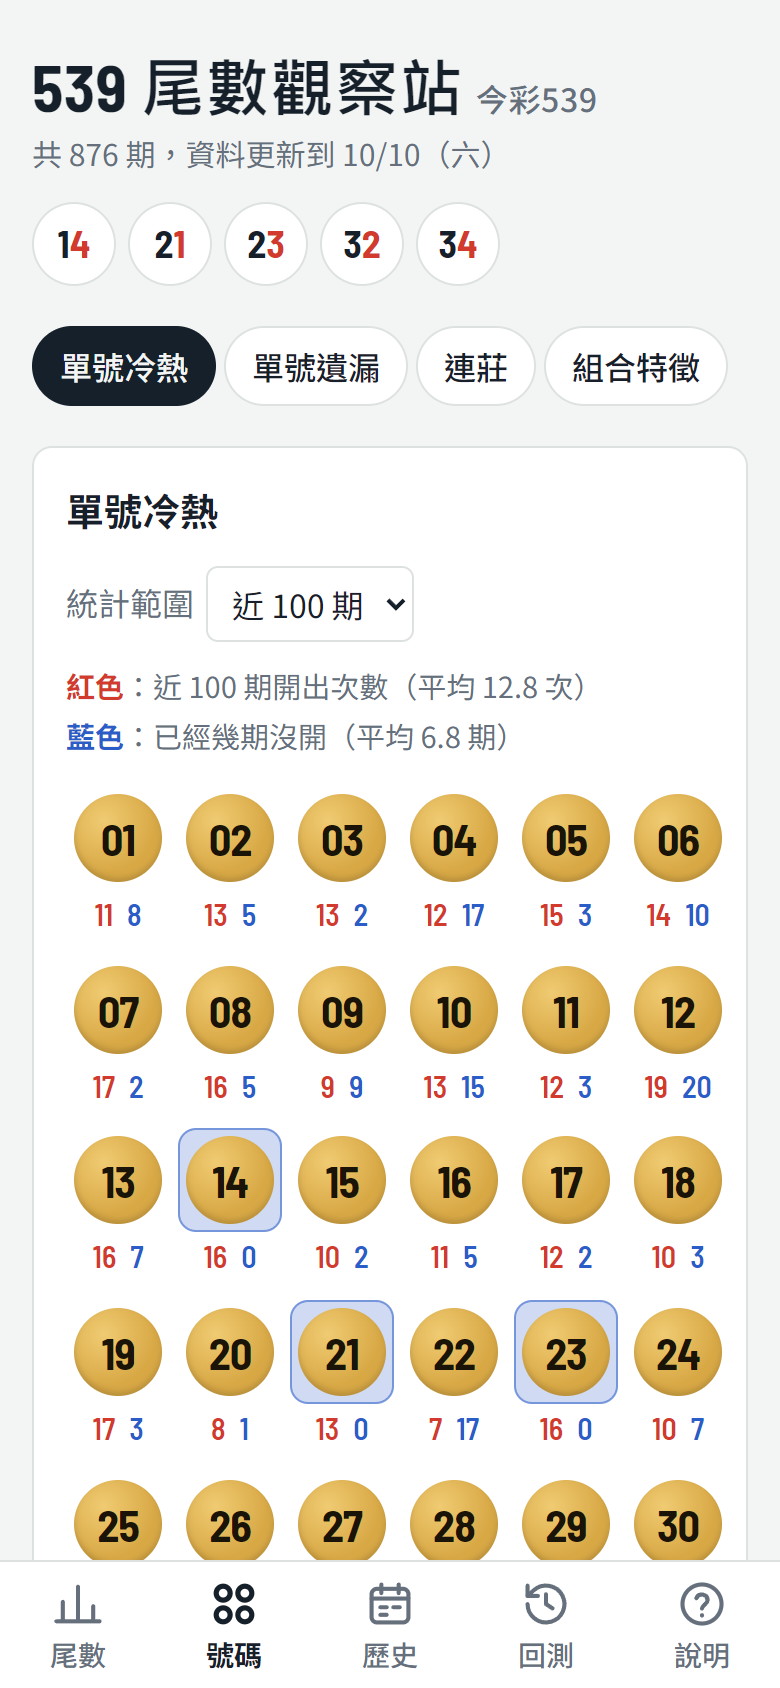
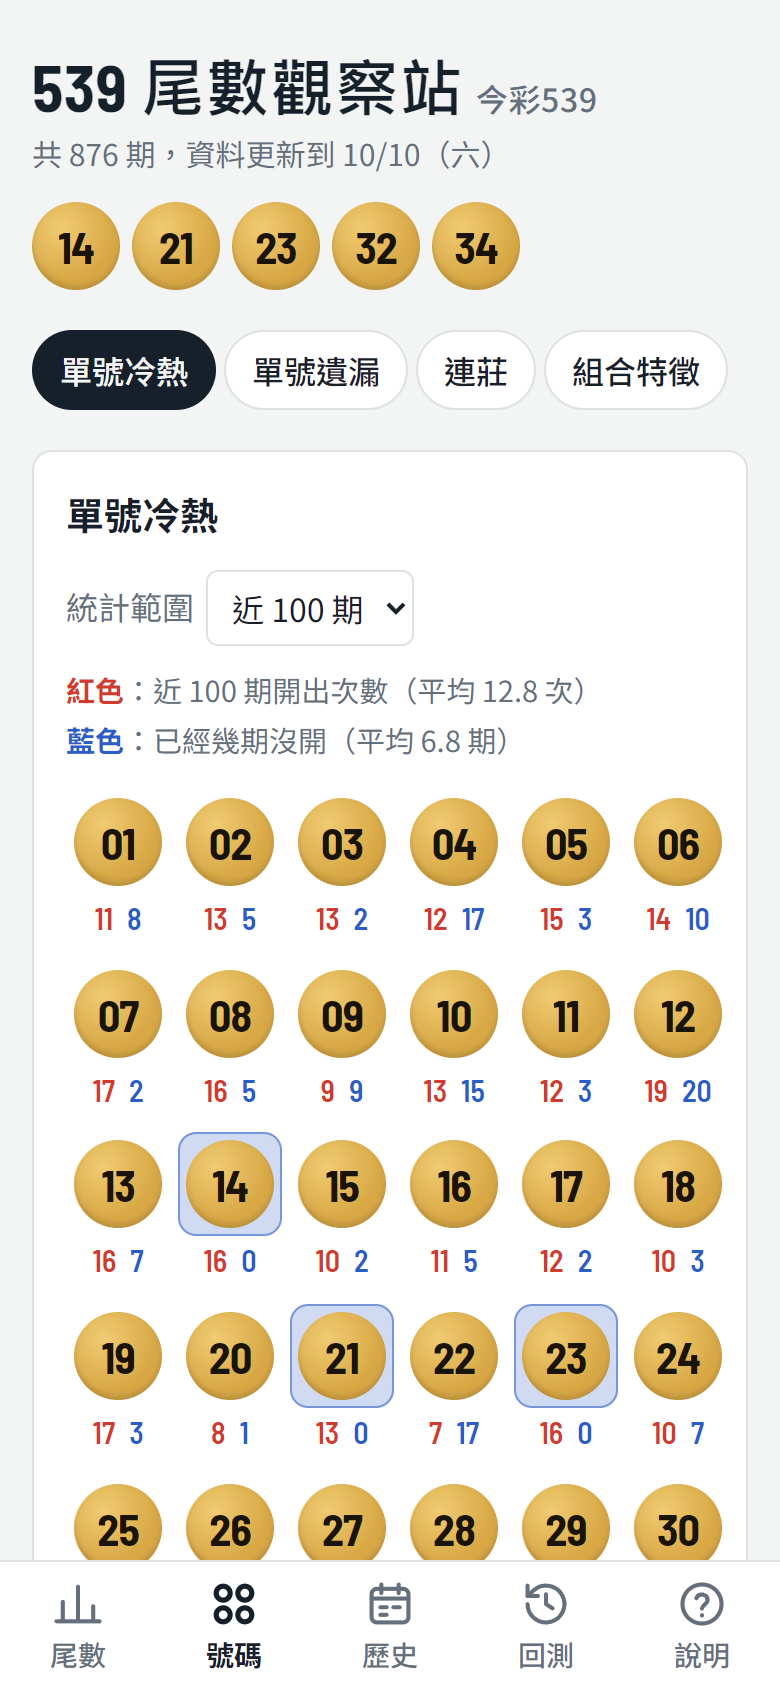
全 app 號碼統一改成金色號碼球
- 最新一期、6中3 訊號、組 A／B、隨機選號：大金球
- 最熱／最冷 5 號、單號遺漏表、雙遺漏、連莊、管理者最近資料：小金球
- 雙遺漏標籤改放在號碼球下方
- 重截說明截圖；計畫書記錄；版本號 20261011f

diff --git a/app/app.js b/app/app.js
@@ -87,7 +87,9 @@ function dateLabel(s){ const d=new Date(s+"T00:00:00Z"); return `${d.getUTCMonth
 /* ---------- 畫面 ---------- */
 const $ = s => document.querySelector(s);
 const pad2 = v => String(v).padStart(2,"0");
-function ballHTML(v){ const s=pad2(v); return `<span class="ball">${s[0]}<b>${s[1]}</b></span>`; }
+function ballHTML(v){ return `<span class="gball">${pad2(v)}</span>`; }
+const sballHTML = v => `<span class="gball sm">${pad2(v)}</span>`;
+const sballs = a => `<span class="sballs">${a.map(sballHTML).join("")}</span>`;
 function gballHTML(v){ return `<span class="gball">${pad2(v)}</span>`; }
 // 期別 = 民國年 × 1,000,000 + 當年第幾期（資料從 2024/1/1 起完整，所以可以照順序算）
 const PERIODS=new WeakMap();
@@ -228,7 +230,7 @@ function viewNum(){
       <div class="hn"><span class="ho${x.o===maxO?" mx":""}">${x.o}</span><span class="hg${g===maxG?" mx":""}">${g}</span></div></div>`;
   }).join("");
   const s=arr.slice().sort((a,b)=>b.z-a.z);
-  const li=a=>a.map(x=>`<div class="it"><span class="ns">${pad2(x.v)}</span><span>${x.o} 次</span><span class="n">z ${x.z>=0?"+":"−"}${Math.abs(x.z).toFixed(1)}</span></div>`).join("");
+  const li=a=>a.map(x=>`<div class="it">${sballHTML(x.v)}<span>${x.o} 次</span><span class="n">z ${x.z>=0?"+":"−"}${Math.abs(x.z).toFixed(1)}</span></div>`).join("");
   const ok=chi<53.4, n=L.length;
   return `<div class="panel"><h2>單號冷熱</h2>
     ${rangeHTML()}
@@ -265,7 +267,7 @@ function viewNgap(){
   const md=s=>s?`${+s.slice(5,7)}/${+s.slice(8,10)}`:"—";
   const rows=g.map(x=>{
     const pct=x.prob*100, strong=x.cur>=avg*3;
-    return `<tr><td class="d">${pad2(x.v)}${both(x)?'<span class="tag" style="background:var(--cold);color:#fff">雙遺漏</span>':""}</td><td><span class="n"${strong?' style="color:var(--cold);font-weight:700"':""}>${x.cur}</span></td><td><span class="n">${x.longest}</span></td>
+    return `<tr><td class="d"><div class="dcell">${sballHTML(x.v)}${both(x)?'<span class="tag dtag">雙遺漏</span>':""}</div></td><td><span class="n"${strong?' style="color:var(--cold);font-weight:700"':""}>${x.cur}</span></td><td><span class="n">${x.longest}</span></td>
       <td><span class="n">${md(x.last)}</span></td><td><span class="n">${x.cur?pct.toFixed(pct<1?2:1)+"%":"—"}</span></td></tr>`;
   }).join("");
   const top=g[0], dual=g.filter(both);
@@ -273,11 +275,11 @@ function viewNgap(){
   const crossPanel=`<div class="panel"><h2>號碼 × 尾數 遺漏比對</h2>
     <p class="note">把「單號遺漏」和「尾數遺漏」放在一起看：號碼本身超過 ${Math.round(avg*3)} 期沒開，而且它的尾數也超過平均 3 倍沒開（尾 0 是 6 期以上，其他尾數 4 期以上），標為「雙遺漏」。</p>
     <p class="note">各尾數目前遺漏（期）：${tailLine}</p>
-    <div class="verdict">${dual.length?`目前雙遺漏：${dual.map(x=>`${pad2(x.v)}（${x.cur} 期，尾 ${x.v%10} 已 ${tg[x.v%10].cur} 期）`).join("、")}。`:`目前沒有雙遺漏的號碼。`}這只是觀察：號碼和尾數遺漏多久，下一期開出的機率都不變。「追遺漏號」到底有沒有用，可以到「選號回測」看實際結果。</div></div>`;
+    <div class="verdict">${dual.length?`目前雙遺漏：${dual.map(x=>`${sballHTML(x.v)}（${x.cur} 期，尾 ${x.v%10} 已 ${tg[x.v%10].cur} 期）`).join("、")}。`:`目前沒有雙遺漏的號碼。`}這只是觀察：號碼和尾數遺漏多久，下一期開出的機率都不變。「追遺漏號」到底有沒有用，可以到「選號回測」看實際結果。</div></div>`;
   return crossPanel+`<div class="panel"><h2>單號遺漏</h2>
     <p class="note">「遺漏」是每個號碼從最新一期往回算，連續幾期沒開出，最久沒開的排最前面。「最長」是統計全部 ${L.length} 期（從 ${L[0].d} 開始）裡，最久連續幾期沒開。「遺漏機率」是連續這麼多期都沒開的機率。平均每個號碼約 ${avg.toFixed(1)} 期會開出一次，目前遺漏超過 ${Math.round(avg*3)} 期的標成藍色。</p>
     <div class="scroll"><table><thead><tr><th>號碼</th><th>遺漏</th><th>最長</th><th>最後開出</th><th>遺漏機率</th></tr></thead><tbody>${rows}</tbody></table></div>
-    <div class="verdict">目前最久沒開的是 ${pad2(top.v)}，已經 ${top.cur} 期。單看一個號碼，連續 ${top.cur} 期沒開的機率只有 ${(top.prob*100).toFixed(top.prob<0.01?2:1)}%，但一共有 39 個號碼，總會有某個號碼剛好拖很久，這很常見。不管遺漏多久，每個號碼下一期開出的機率都一樣是 ${(P_NUM*100).toFixed(1)}%，不會因為「很久沒出」而變高。</div>
+    <div class="verdict">目前最久沒開的是 ${sballHTML(top.v)}，已經 ${top.cur} 期。單看一個號碼，連續 ${top.cur} 期沒開的機率只有 ${(top.prob*100).toFixed(top.prob<0.01?2:1)}%，但一共有 39 個號碼，總會有某個號碼剛好拖很久，這很常見。不管遺漏多久，每個號碼下一期開出的機率都一樣是 ${(P_NUM*100).toFixed(1)}%，不會因為「很久沒出」而變高。</div>
     <p class="note">「冷熱」看的是一段期間總共開幾次，「遺漏」看的是最近連續幾期沒開，兩個是不同的數字。例如一個號碼近 100 期開了 10 次，但如果全都集中在前面，最近還是可能很久沒開。</p></div>`;
 }
 
@@ -293,7 +295,7 @@ function viewRep(){
   return `<div class="panel"><h2>連莊統計</h2>
     <p class="note">每一期跟上一期比，有幾個號碼重複開出。統計全部 ${n} 組相鄰兩期，白線／黑線是理論值。</p>
     <div class="rows">${rows}</div>
-    <div class="verdict">實際平均每期連莊 ${mean.toFixed(3)} 個，理論值 0.641 個。最新一期 ${last.d} ${rep.length?`連莊了 ${rep.map(pad2).join("、")}`:"沒有連莊號碼"}。「上期開過的號碼這期比較容易再出」如果是真的，實際值會明顯高於理論值；兩者接近，就代表上一期對這一期沒有影響。</div></div>`;
+    <div class="verdict">實際平均每期連莊 ${mean.toFixed(3)} 個，理論值 0.641 個。最新一期 ${last.d} ${rep.length?`連莊了 ${sballs(rep)}`:"沒有連莊號碼"}。「上期開過的號碼這期比較容易再出」如果是真的，實際值會明顯高於理論值；兩者接近，就代表上一期對這一期沒有影響。</div></div>`;
 }
 
 function featBlock(title,note,labels,theo,act,N){
@@ -485,7 +487,7 @@ function viewSig(){
     ${sigChart(hitSeries(L, s.six, 3, SIG_W))}</div>`;
   const grp=(name,g)=>{
     const since=sinceLastHit(L, g.t, 2);
-    return `<div class="panel"><h2>${name}：${g.t.map(pad2).join("、")}</h2>
+    return `<div class="panel"><h2 class="gh">${name}${sballs(g.t)}</h2>
       <div class="kpis"><div><span>近 ${SIG_W} 期 3 中 2</span><b>${g.m} 次</b></div><div><span>平均間隔</span><b>${g.mean.toFixed(1)} 期</b></div><div><span>已幾期沒中</span><b>${g.g} 期</b></div></div>
       <p class="note">間隔穩定度 ${g.cv.toFixed(2)}（越小越規律）、K 值 ${g.K.toFixed(1)}。上次 3 中 2：${since?dateLabel(since.d):"—"}。</p>
       ${triDistHTML(L, g.t)}
@@ -575,7 +577,7 @@ function viewData(){
   const recentList=L.slice(-20).reverse();
   html+=`<div class="panel"><h2>最近資料</h2>
     <p class="note">發現某一期號碼錯了，可以刪除；如果兩個開獎網站資料正確，當晚自動抓號會再補回來。</p>
-    <div class="list">${recentList.map(x=>`<div class="it"><span>${x.d}</span><span class="ns">${x.n.map(pad2).join(" ")}</span><button class="x" data-del="${x.d}" ${S.busy?"disabled":""}>刪除</button></div>`).join("")||'<p class="note">還沒有資料。</p>'}</div></div>`;
+    <div class="list">${recentList.map(x=>`<div class="it"><span>${x.d}</span>${sballs(x.n)}<button class="x" data-del="${x.d}" ${S.busy?"disabled":""}>刪除</button></div>`).join("")||'<p class="note">還沒有資料。</p>'}</div></div>`;
   html+=`<div class="panel"><div class="btns" style="margin-top:0"><button class="btn ghost" data-act="logout">登出管理者</button></div>
     <p class="note">登出後「資料」分頁會隱藏，要再輸入密碼才看得到。</p></div>`;
   return html;

diff --git a/app/style.css b/app/style.css
@@ -138,6 +138,11 @@ table.tri td{vertical-align:top}
 :root{--gold:#D8A845;--gold-hi:#F0CB72;--gold-ink:#1A1408}
 .gball{width:min(44px,11.4vw);height:min(44px,11.4vw);border-radius:50%;display:inline-flex;align-items:center;justify-content:center;flex:none;
   background:radial-gradient(circle at 34% 30%,var(--gold-hi),var(--gold) 62%);color:var(--gold-ink);font:700 min(22px,5.8vw) var(--num);letter-spacing:-.02em;box-shadow:inset 0 -2px 3px rgba(0,0,0,.15)}
+.gball.sm{width:30px;height:30px;font-size:15px;vertical-align:middle;box-shadow:inset 0 -1px 2px rgba(0,0,0,.15)}
+.sballs{display:inline-flex;gap:4px;vertical-align:middle;flex-wrap:wrap}
+h2.gh{display:flex;align-items:center;gap:10px;flex-wrap:wrap}
+.verdict .gball.sm{margin:2px 1px}
+.list .it .sballs{gap:3px}
 .hpanel{padding:16px 0 0;overflow:hidden}
 .hhead{display:flex;justify-content:space-between;align-items:center;padding:0 16px}
 .hhead h2{margin:0}
@@ -159,3 +164,5 @@ table.tri td{vertical-align:top}
 .hlegend b{font-weight:700}
 .meta .src{margin-left:6px}
 .meta .src.off{color:var(--hot)}
+.dcell{display:flex;flex-direction:column;align-items:center;gap:3px}
+.tag.dtag{margin:0;background:var(--cold);color:#fff;font-size:11.5px;padding:0 6px;white-space:nowrap}

diff --git a/app/index.html b/app/index.html
@@ -16,7 +16,7 @@
 <link rel="preconnect" href="https://fonts.googleapis.com">
 <link rel="preconnect" href="https://fonts.gstatic.com" crossorigin>
 <link href="https://fonts.googleapis.com/css2?family=Barlow+Semi+Condensed:wght@500;600;700&family=Noto+Sans+TC:wght@400;500;700&display=swap" rel="stylesheet">
-<link rel="stylesheet" href="style.css?v=20261011e">
+<link rel="stylesheet" href="style.css?v=20261011f">
 </head>
 <body>
 <div id="ptr" aria-live="polite"></div>
@@ -50,7 +50,7 @@
     <svg viewBox="0 0 24 24" aria-hidden="true"><ellipse cx="12" cy="5.5" rx="7.5" ry="2.8"/><path d="M4.5 5.5v13c0 1.5 3.4 2.8 7.5 2.8s7.5-1.3 7.5-2.8v-13"/><path d="M4.5 12c0 1.5 3.4 2.8 7.5 2.8s7.5-1.3 7.5-2.8"/></svg>資料</button>
 </nav>
 
-<script src="stats.js?v=20261011e"></script>
-<script src="app.js?v=20261011e"></script>
+<script src="stats.js?v=20261011f"></script>
+<script src="app.js?v=20261011f"></script>
 </body>
 </html>

diff --git a/app/sw.js b/app/sw.js
@@ -2,7 +2,7 @@
  * 網頁檔案存一份在手機裡。改了 app 的檔案時，把 VERSION 換掉，舊的快取會自動清掉。
  * 開獎資料不在這裡處理：app.js 自己會把資料存在 localStorage。
  */
-const VERSION = "20261011e";
+const VERSION = "20261011f";
 const CACHE = "t539-" + VERSION;
 const SHELL = [
   "./",
